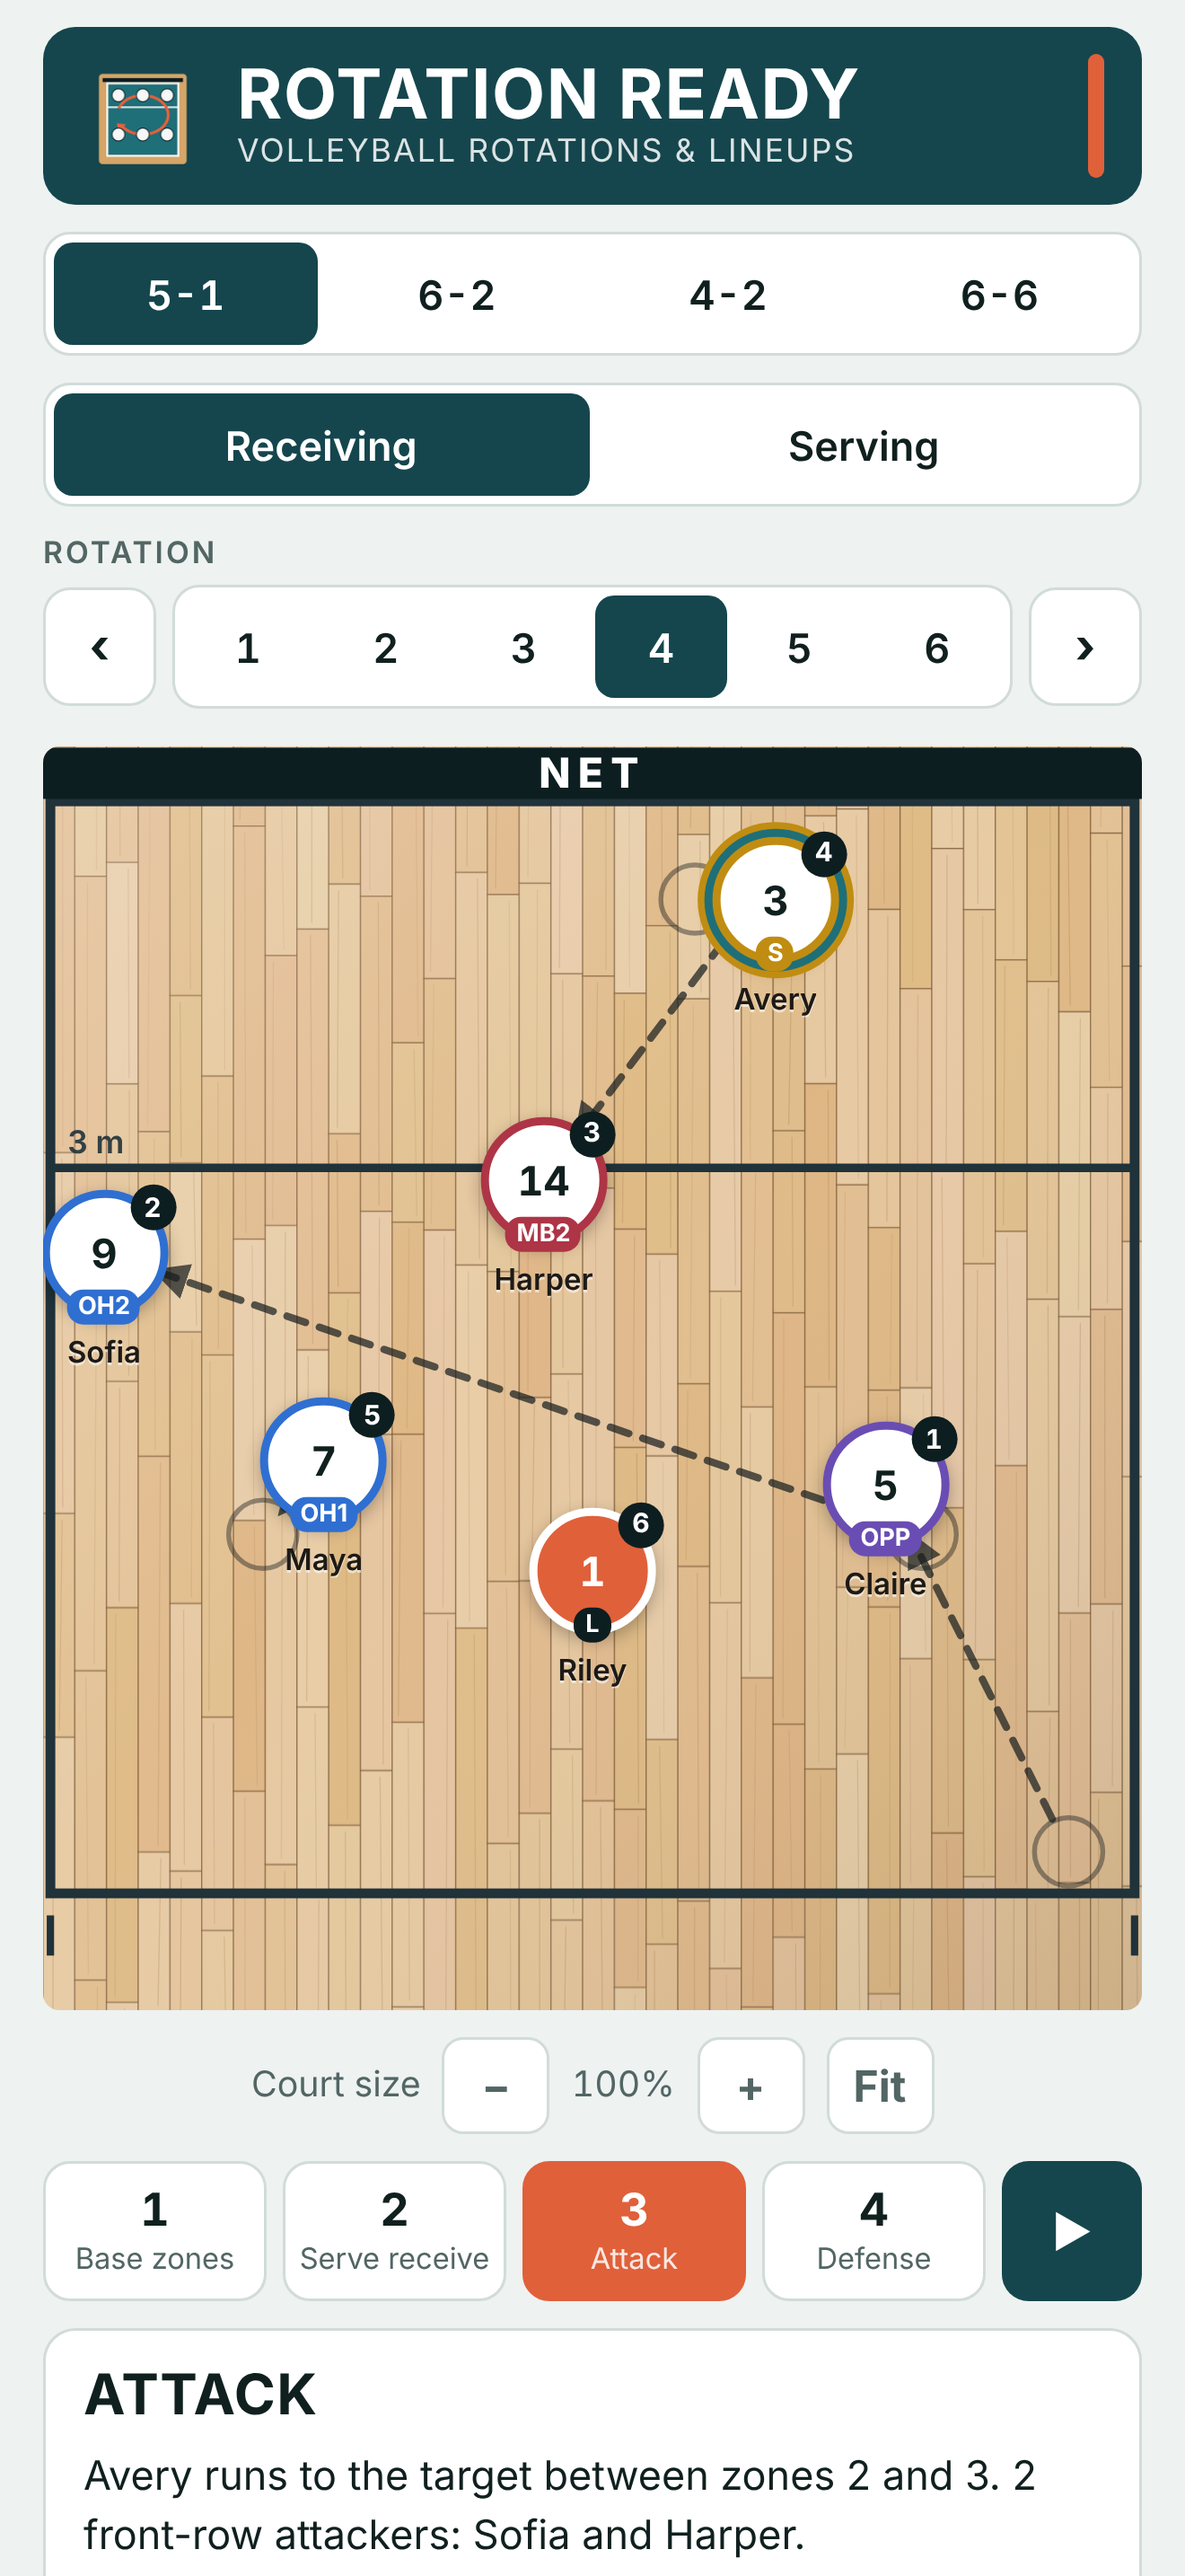
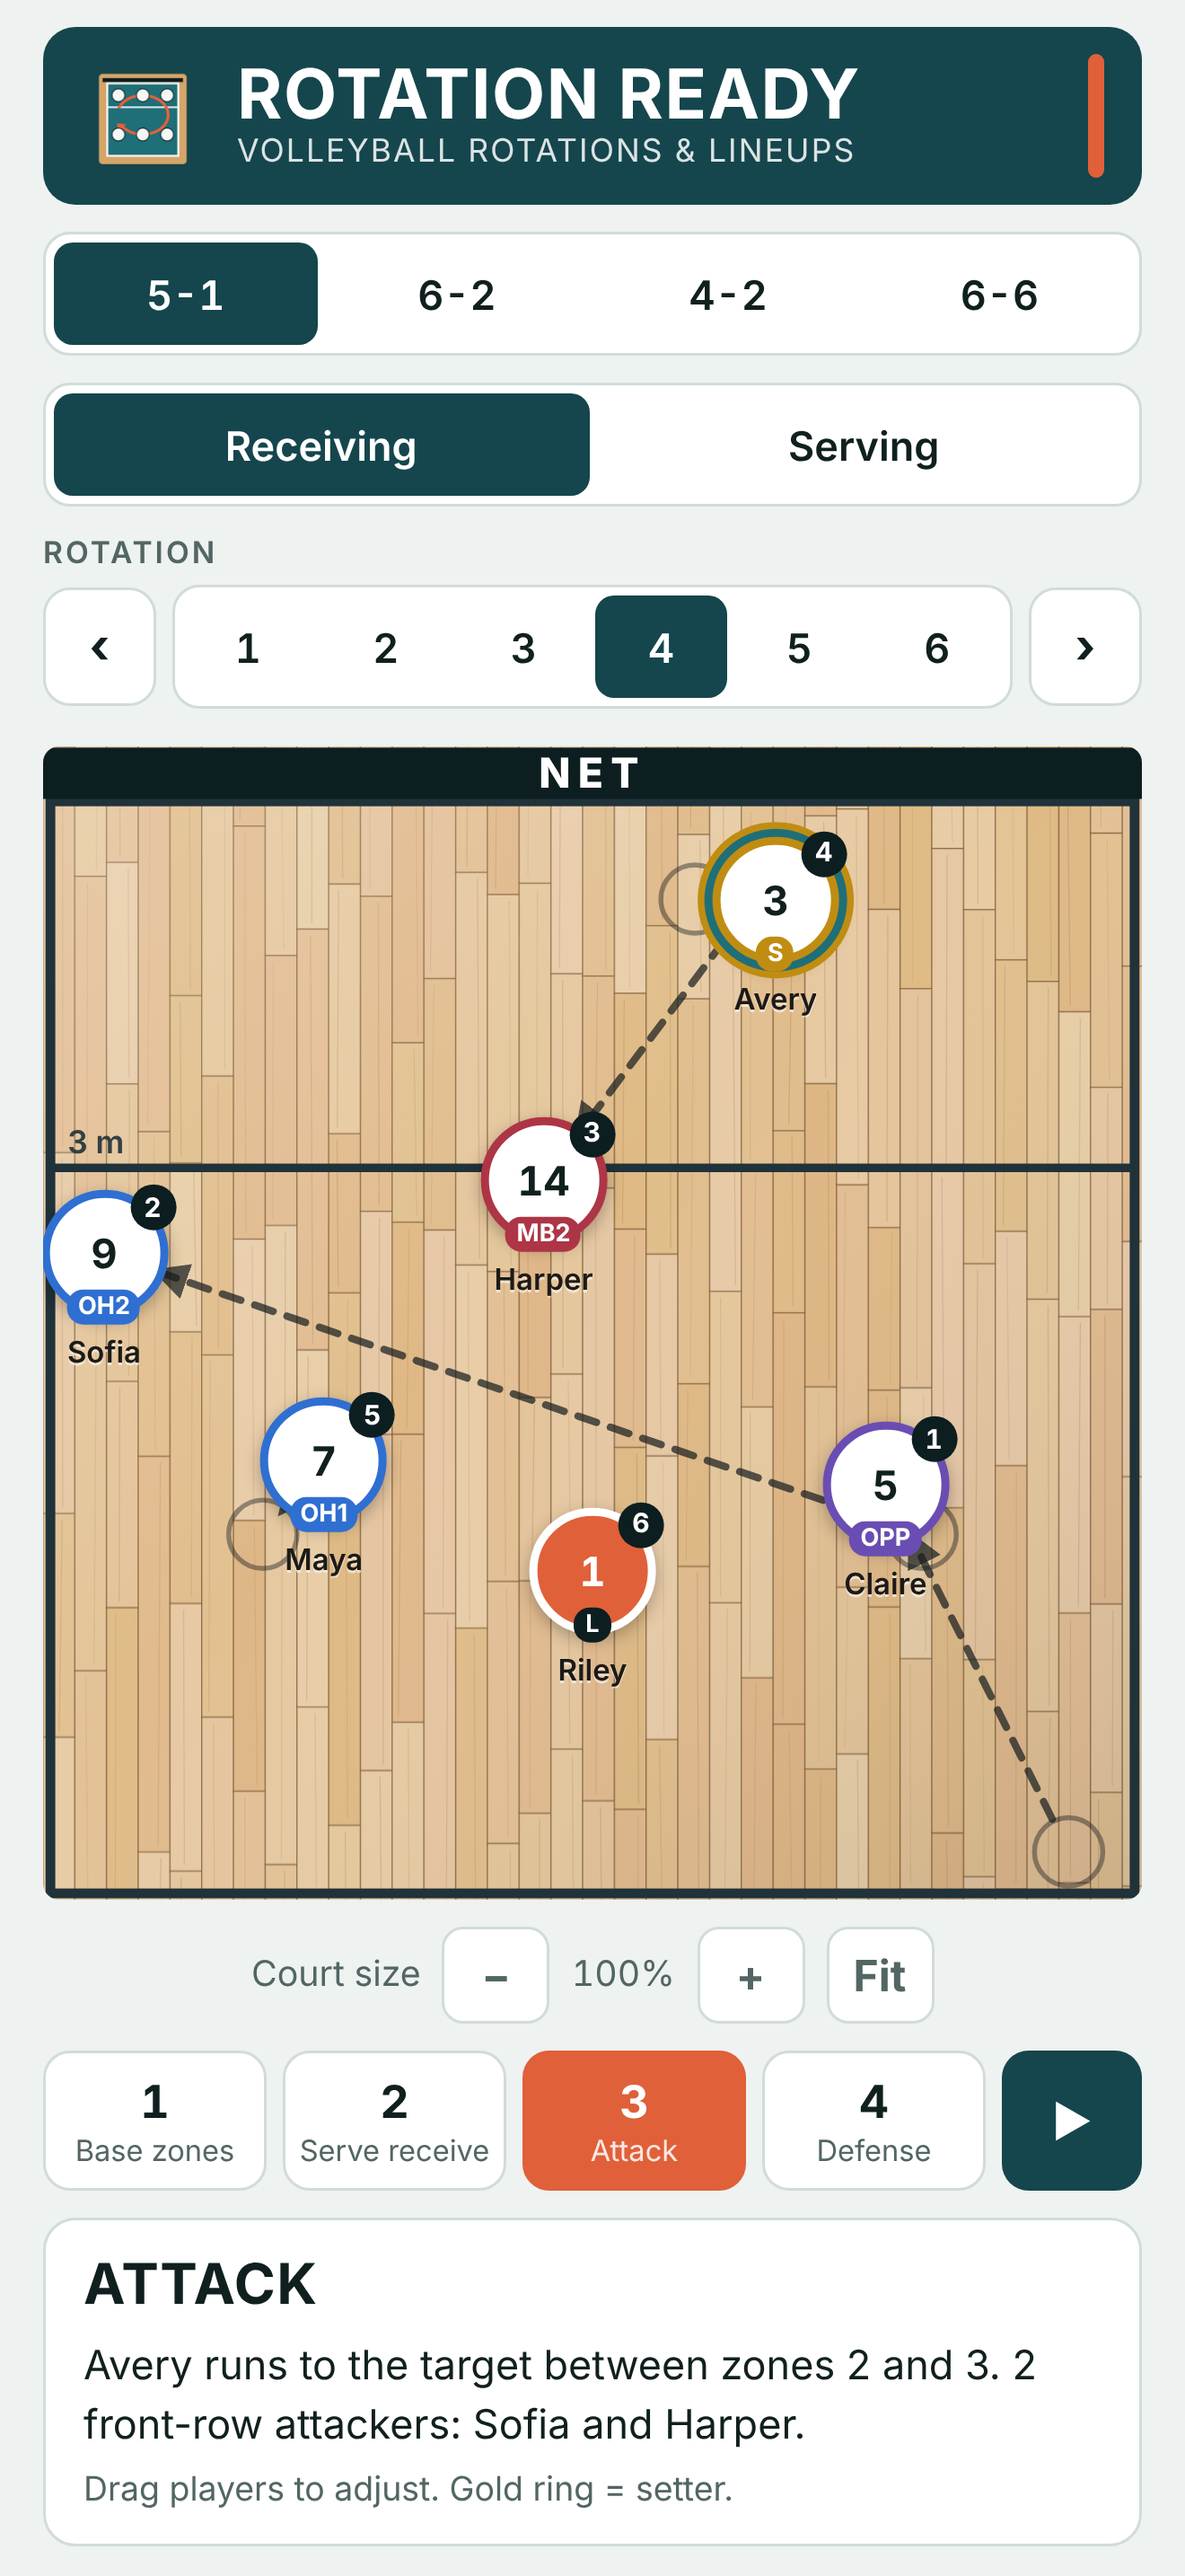
Trim the area around the court; server stands just below the end line
Claude-Session: https://claude.ai/code/session_01XjvadqE4PRY1XXpJhyDyr2

Changed region(s): [[0.0311, 0.7137, 0.9629, 0.993], [0.7455, 0.962, 0.7765, 0.993]]

diff --git a/www/index.html b/www/index.html
@@ -95,18 +95,21 @@ h1{font-family:var(--display);font-weight:700;font-size:1.6rem;letter-spacing:.0
 
 .board{display:grid;gap:10px;min-width:0;justify-items:center}
 .courtscroll{width:100%;overflow:auto;-webkit-overflow-scrolling:touch}
-.courtwrap{--z:1;width:calc(var(--z) * min(100%,(100dvh - 120px) * .87));margin-inline:auto}
-@media (min-width:760px){.courtwrap{width:calc(var(--z) * min(100%,(100dvh - 230px) * .87))}}
+.courtwrap{--z:1;width:calc(var(--z) * min(100%,(100dvh - 120px) * .95));margin-inline:auto}
+@media (min-width:760px){.courtwrap{width:calc(var(--z) * min(100%,(100dvh - 230px) * .95))}}
 .zoombar{display:flex;align-items:center;gap:8px;font-size:.82rem;color:var(--muted);font-variant-numeric:tabular-nums}
 .zoombar button{border:1px solid var(--line);background:var(--surface);border-radius:8px;min-width:40px;min-height:36px;font-weight:700;font-size:1rem}
-.court{position:relative;width:100%;aspect-ratio:9/10.35;touch-action:manipulation;user-select:none;-webkit-user-select:none;border-radius:6px;overflow:hidden}
+.court{position:relative;width:100%;aspect-ratio:9/9.45;touch-action:manipulation;user-select:none;-webkit-user-select:none}
+.court svg:first-child{border-radius:6px}
+.courtwrap.serving{padding-bottom:16%}
 .court svg{position:absolute;inset:0;width:100%;height:100%;display:block}
 .c-free{fill:var(--free)} .c-court{fill:var(--court)} .c-sheen{display:none}
 .court.wood{--court-line:var(--wood-line,#20323a);--arrow:rgba(25,30,32,.72)}
 .court.wood .c-court{fill:url(#woodCourt)} .court.wood .c-free{fill:url(#woodCourt)} .court.wood .c-sheen{display:inline}
 .court.wood .c-zone{opacity:.14}
 .court.wood .c-txt{fill:var(--court-line);opacity:.9}
-.court.wood .nm{color:#1d1a16;text-shadow:0 1px 0 rgba(255,255,255,.55)} .c-line{stroke:var(--court-line);fill:none}
+.court.wood .nm{color:#1d1a16;text-shadow:0 1px 0 rgba(255,255,255,.55)}
+.tok.off .nm,.court.wood .tok.off .nm{color:var(--ink);text-shadow:none} .c-line{stroke:var(--court-line);fill:none}
 .c-net{fill:var(--net)} .c-zone{fill:var(--court-line);opacity:.18;font-family:var(--display);font-weight:700}
 .c-txt{fill:var(--court-line);opacity:.8;font-family:var(--body);font-weight:600}
 .arrows line{stroke:var(--arrow);stroke-width:.06;stroke-dasharray:.16 .12;stroke-linecap:round}
@@ -200,23 +203,21 @@ h1{font-family:var(--display);font-weight:700;font-size:1.6rem;letter-spacing:.0
   <section class="board">
     <div class="courtscroll" id="courtScroll"><div class="courtwrap" id="courtWrap">
       <div class="court" id="court">
-        <svg viewBox="0 -0.45 9 10.35" preserveAspectRatio="none" aria-hidden="true">
+        <svg viewBox="0 -0.45 9 9.45" preserveAspectRatio="none" aria-hidden="true">
           <defs id="woodDefs">
             <linearGradient id="woodSheen" x1="0" y1="0" x2="1" y2="1"><stop offset="0" stop-color="#fff" stop-opacity=".22"/><stop offset=".45" stop-color="#fff" stop-opacity="0"/><stop offset="1" stop-color="#000" stop-opacity=".10"/></linearGradient>
           </defs>
-          <rect class="c-free" x="0" y="-0.45" width="9" height="10.35"/>
+          <rect class="c-free" x="0" y="-0.45" width="9" height="9.45"/>
           <rect class="c-court" x="0.06" y="0" width="8.88" height="8.94"/>
-          <rect class="c-sheen" x="0" y="-0.45" width="9" height="10.35" fill="url(#woodSheen)"/>
+          <rect class="c-sheen" x="0" y="-0.45" width="9" height="9.45" fill="url(#woodSheen)"/>
           <rect class="c-line" x="0.06" y="0" width="8.88" height="8.94" stroke-width="0.08"/>
           <line class="c-line" x1="0.06" y1="3" x2="8.94" y2="3" stroke-width="0.07"/>
-          <line class="c-line" x1="0.06" y1="9.12" x2="0.06" y2="9.45" stroke-width="0.06"/>
-          <line class="c-line" x1="8.94" y1="9.12" x2="8.94" y2="9.45" stroke-width="0.06"/>
           <rect class="c-net" x="0" y="-0.44" width="9" height="0.42"/>
           <text class="c-txt" x="0.2" y="2.88" font-size="0.26">3 m</text>
           <text class="c-txt" x="4.5" y="-0.11" font-size="0.34" text-anchor="middle" letter-spacing="0.06" style="fill:#fff;opacity:1;font-weight:800">NET</text>
           <g id="zoneNums"></g>
         </svg>
-        <svg class="arrows" id="arrows" viewBox="0 -0.45 9 10.35" preserveAspectRatio="none" aria-hidden="true">
+        <svg class="arrows" id="arrows" viewBox="0 -0.45 9 9.45" preserveAspectRatio="none" aria-hidden="true">
           <defs><marker id="ah" viewBox="0 0 10 10" refX="7" refY="5" markerWidth="5" markerHeight="5" orient="auto-start-reverse"><path d="M0 0L10 5L0 10z"/></marker></defs>
           <g id="arrowG"></g>
         </svg>
@@ -355,7 +356,7 @@ function basePos(step,c){
   const pos={};
   if(step===1){c.ps.forEach(p=>pos[p.id]=[...ZXY[p.zone]]);return pos;}
   if(S.mode==='serve'&&step===2){
-    c.ps.forEach(p=>{const[x]=ZXY[p.zone];pos[p.id]=p===c.server?[7.7,9.45]:isFront(p.zone)?[x,1.7]:[x,6.2];});return pos;}
+    c.ps.forEach(p=>{const[x]=ZXY[p.zone];pos[p.id]=p===c.server?[7.7,9.5]:isFront(p.zone)?[x,1.7]:[x,6.2];});return pos;}
   if(S.mode==='receive'&&step===2){
     if(S.sys==='6-6'){const W={4:[1.7,3.9],3:[5.2,.9],2:[7.3,3.9],5:[2.3,6.9],6:[4.5,4.7],1:[6.7,6.9]};
       c.ps.forEach(p=>pos[p.id]=[...W[p.zone]]);return repair(pos,c);}
@@ -417,18 +418,19 @@ function render(){
     let t=toks[p.id];
     if(!t){t=document.createElement('div');t.dataset.id=p.id;t.innerHTML='<div class="disc"><span class="lab"></span><span class="zn"></span><span class="rl"></span></div><div class="nm"></div>';
       court.appendChild(t);toks[p.id]=t;bindDrag(t);
-      const start=pos[p.id];t.style.left=start[0]/9*100+'%';t.style.top=(start[1]+.45)/10.35*100+'%';}
+      const start=pos[p.id];t.style.left=start[0]/9*100+'%';t.style.top=(start[1]+.45)/9.45*100+'%';}
     t.className='tok '+p.role+(p.sets?' sets':'')+(p.num?' hasnum':'');
     t.querySelector('.lab').textContent=p.num||p.label;t.querySelector('.rl').textContent=p.num?p.label:'';t.querySelector('.zn').textContent=p.zone;t.querySelector('.nm').textContent=p.name;
     t.setAttribute('aria-label',`${p.num?'#'+p.num+' ':''}${p.name}, ${FULL[p.role]}, zone ${p.zone}`);
-    place(t,pos[p.id]);
+    place(t,pos[p.id]);t.classList.toggle('off',pos[p.id][1]>9);
   });
   const ball=document.getElementById('ball');
-  if(c.server&&S.step===2){ball.hidden=false;const sp=pos[c.server.id];ball.style.left=(sp[0]+.42)/9*100+'%';ball.style.top=(sp[1]-.35+.45)/10.35*100+'%';}else ball.hidden=true;
+  document.getElementById('courtWrap').classList.toggle('serving',!!(c.server&&S.step===2));
+  if(c.server&&S.step===2){ball.hidden=false;const sp=pos[c.server.id];ball.style.left=(sp[0]+.42)/9*100+'%';ball.style.top=(sp[1]-.35+.45)/9.45*100+'%';}else ball.hidden=true;
   prevPos=S.step>1?getPos(S.step-1,c):null;
   drawArrows(c,pos);renderInfo(c,pos);
 }
-function place(t,[x,y]){t.style.left=x/9*100+'%';t.style.top=(y+.45)/10.35*100+'%';}
+function place(t,[x,y]){t.style.left=x/9*100+'%';t.style.top=(y+.45)/9.45*100+'%';}
 
 function drawArrows(c,pos){
   const g=document.getElementById('arrowG');
@@ -566,7 +568,7 @@ function bindDrag(t){
   t.addEventListener('pointerdown',e=>{stopPlay();e.preventDefault();try{t.setPointerCapture(e.pointerId);}catch(_){}
     drag={id:t.dataset.id,t};t.classList.add('drag');});
   t.addEventListener('pointermove',e=>{if(!drag||drag.t!==t)return;const r=court.getBoundingClientRect();
-    const x=Math.min(9,Math.max(0,(e.clientX-r.left)/r.width*9)),y=Math.min(9.75,Math.max(-.3,(e.clientY-r.top)/r.height*10.35-.45));
+    const x=Math.min(9,Math.max(0,(e.clientX-r.left)/r.width*9)),y=Math.min(9.75,Math.max(-.3,(e.clientY-r.top)/r.height*9.45-.45));
     cur[drag.id]=[x,y];if(raf)return;raf=requestAnimationFrame(()=>{raf=0;if(!drag)return;place(drag.t,cur[drag.id]);drawArrows(curC,cur);if(S.step===2)renderInfo(curC,cur);});});
   const end=()=>{if(!drag||drag.t!==t)return;if(raf){cancelAnimationFrame(raf);raf=0;}t.classList.remove('drag');const k=vkey(S.step);
     S.ov[k]=Object.assign({},S.ov[k],{[drag.id]:cur[drag.id].map(v=>Math.round(v*100)/100)});drag=null;save();tick();render();};
